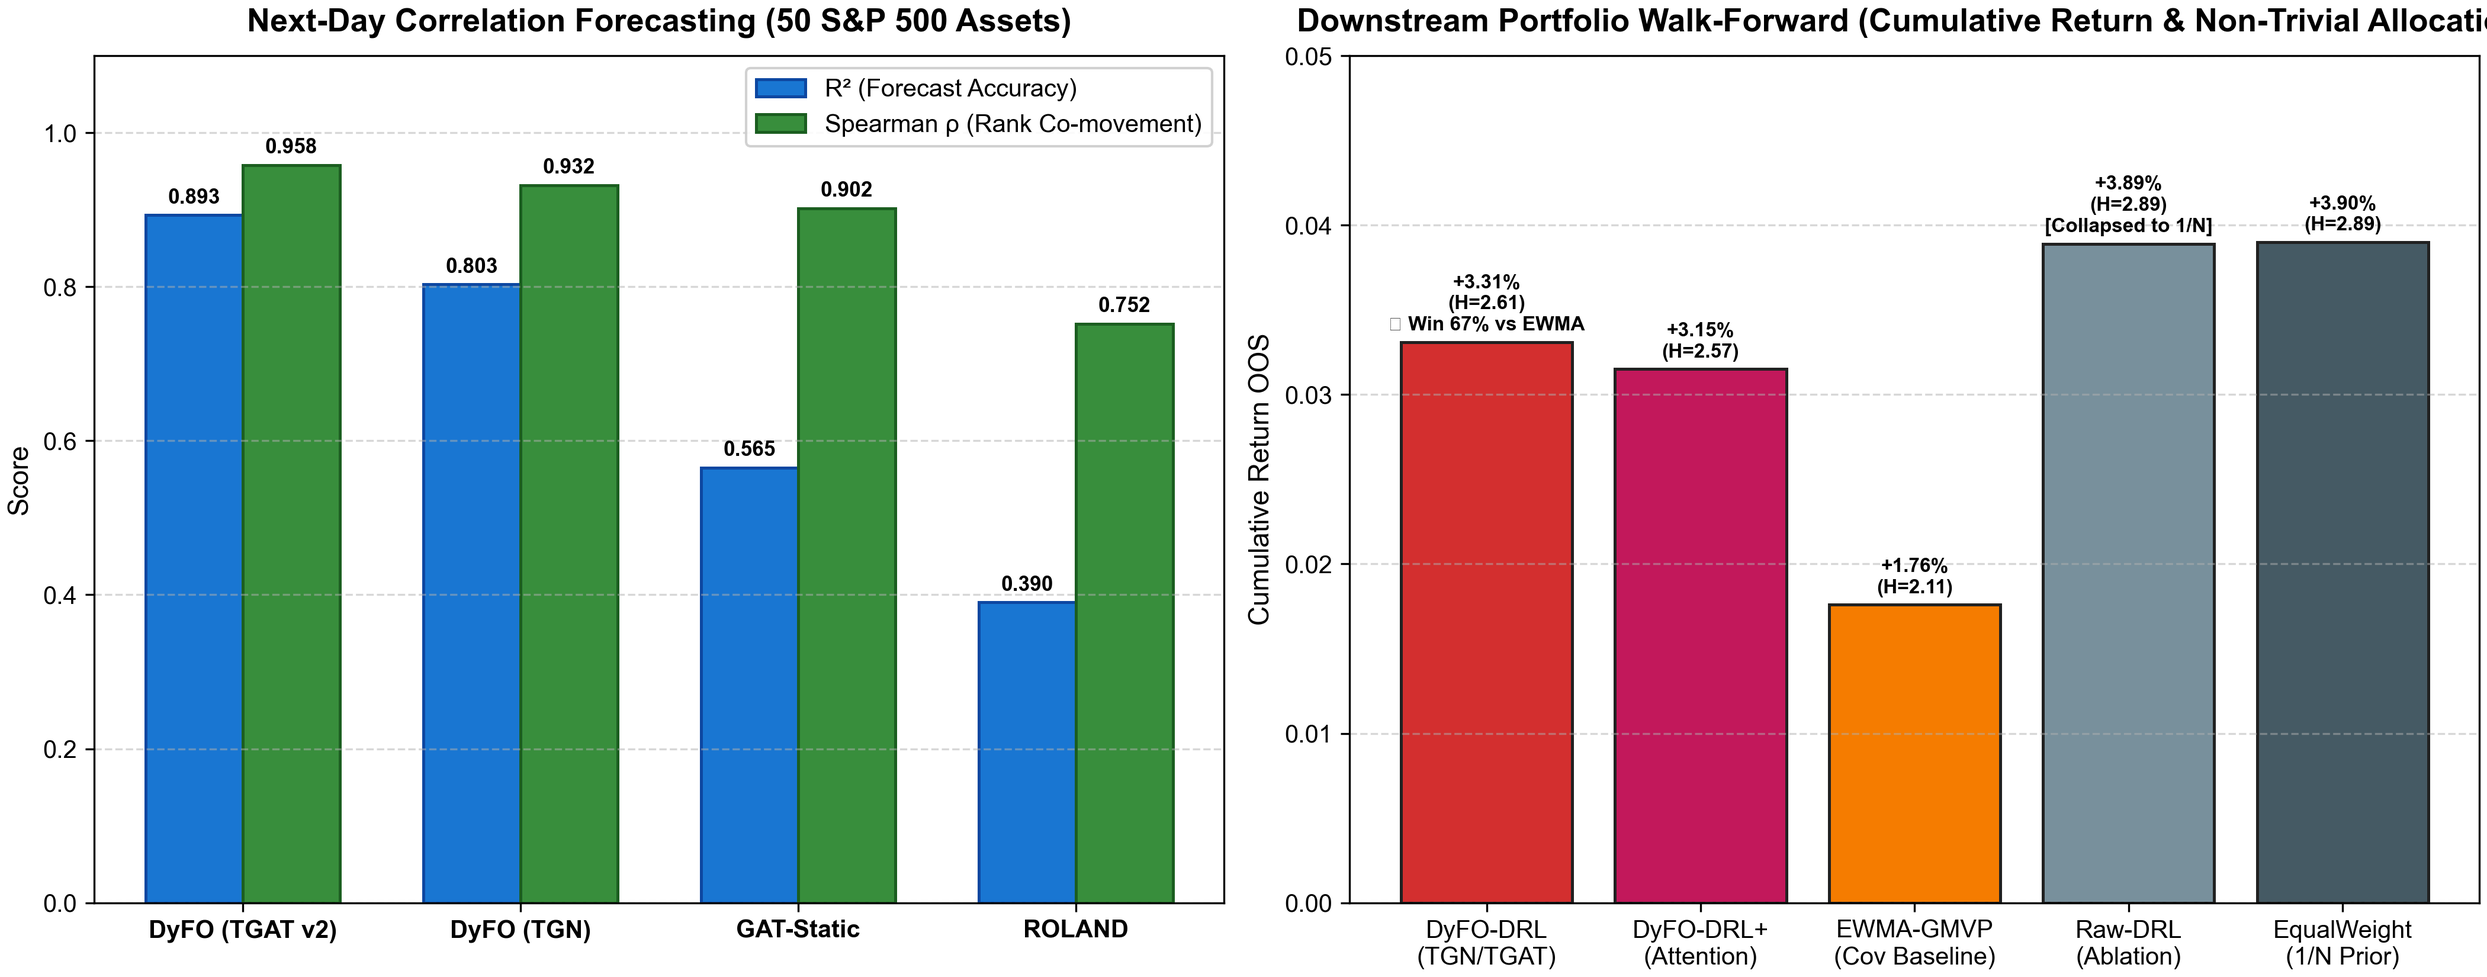
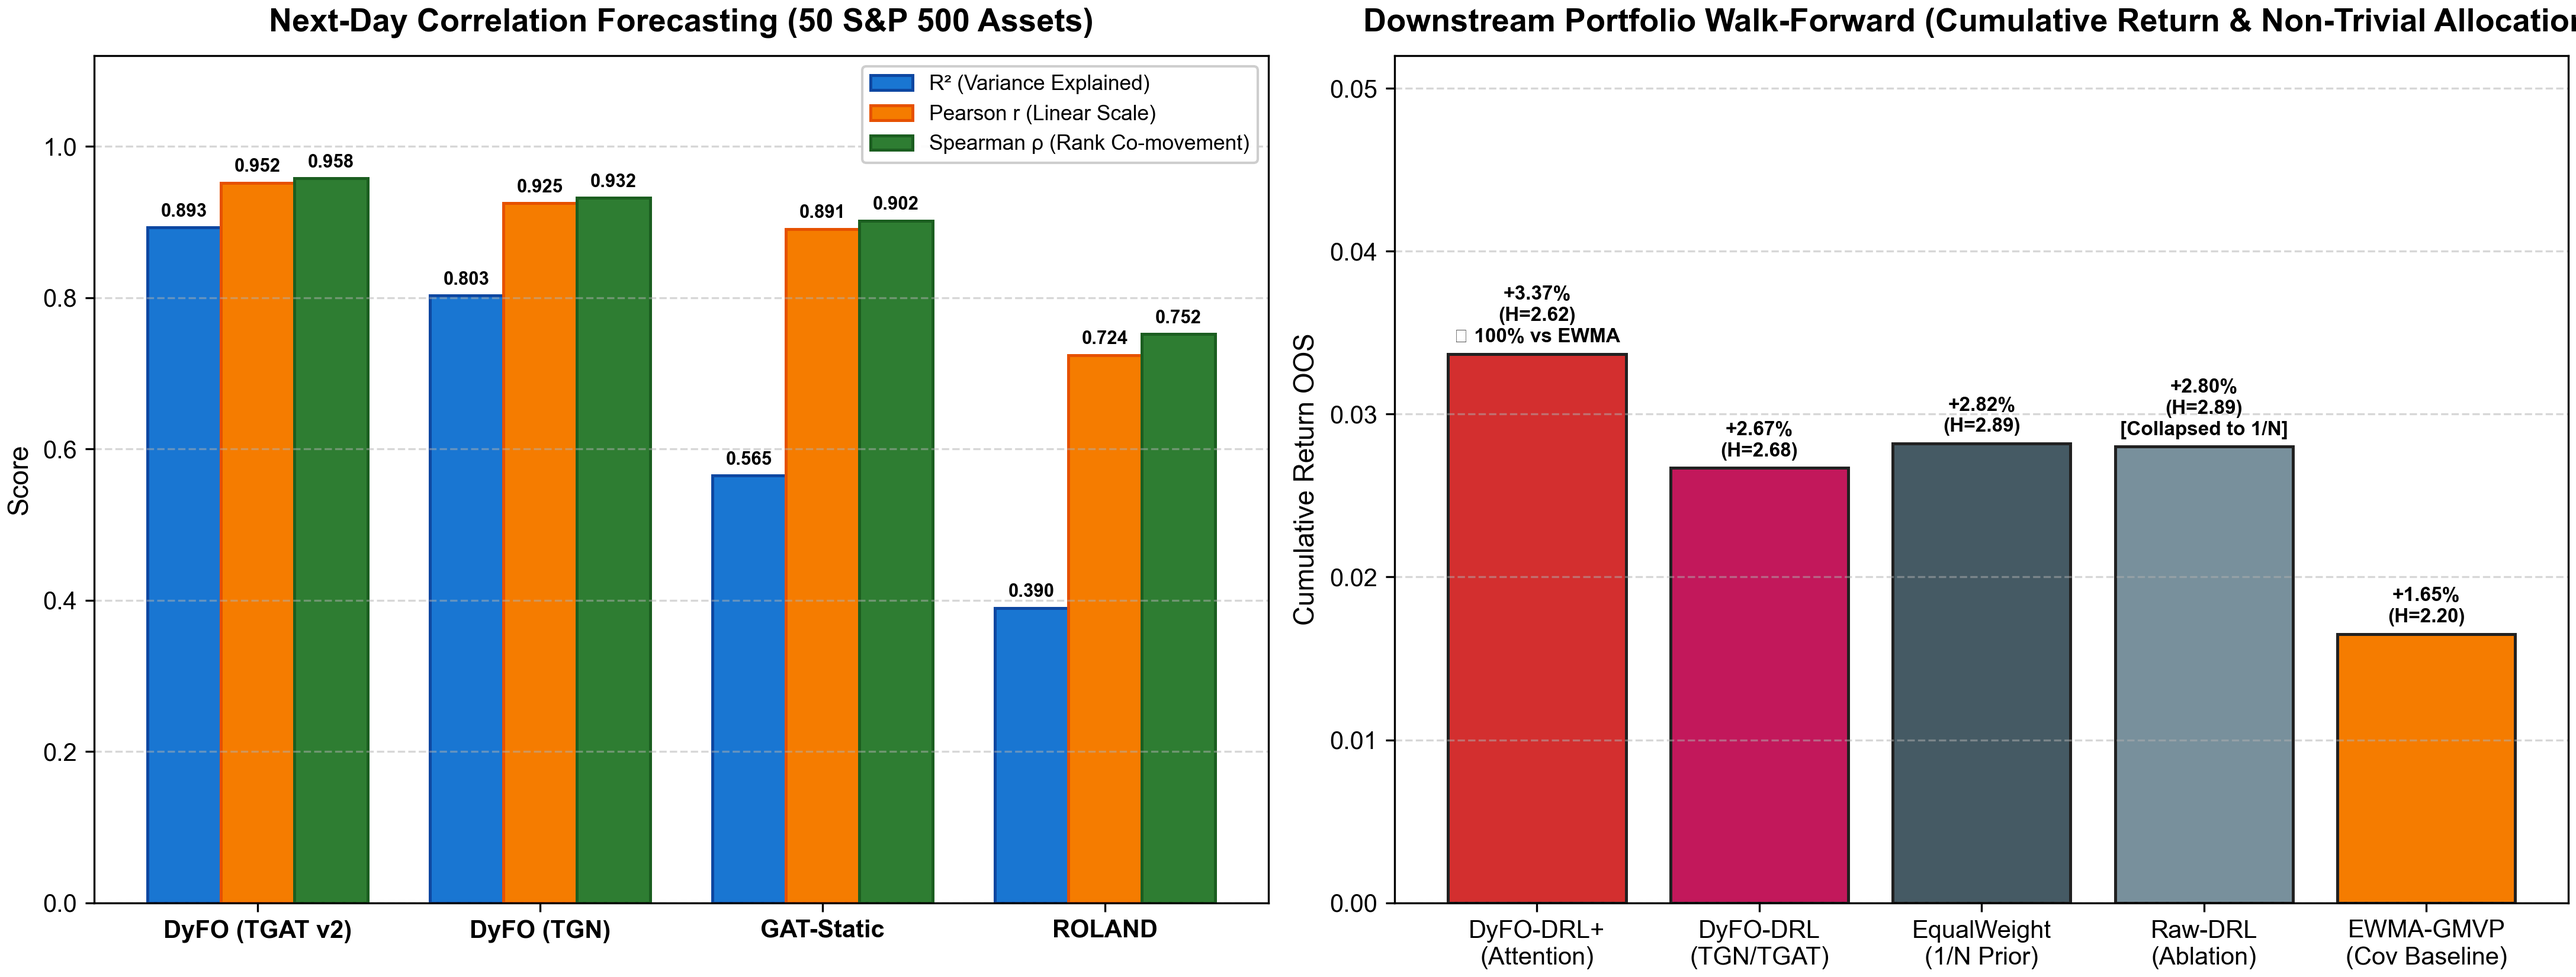
feat(slides): add Pearson r metric to slide 2 chart and slide 4 deck notes

diff --git a/doc/bracis_presentation_deck.html b/doc/bracis_presentation_deck.html
@@ -473,9 +473,10 @@
         <div class="text-column">
           <p>Avaliação em 9 janelas <em>walk-forward</em> não-sobrepostas (2018–2025):</p>
           <ul style="margin-top: 10px;">
-            <li><strong>DyFO (TGAT v2):</strong> <span class="highlight">R² = 0.893</span> | <span class="highlight">Spearman ρ = 0.958</span> | MAE = 0.035.</li>
-            <li><strong>GAT-Static:</strong> R² = 0.565 | Spearman ρ = 0.902 (perde dinâmica temporal).</li>
-            <li><strong>ROLAND:</strong> R² = 0.390 | Spearman ρ = 0.752 (degradação por discretização).</li>
+            <li><strong>DyFO (TGAT v2):</strong> <span class="highlight">R² = 0.893</span> | <span class="highlight">Pearson r = 0.952</span> | <span class="highlight">Spearman ρ = 0.958</span> (MAE = 0.035).</li>
+            <li><strong>DyFO (TGN):</strong> R² = 0.803 | Pearson r = 0.925 | Spearman ρ = 0.932 (deriva por memória).</li>
+            <li><strong>GAT-Static:</strong> R² = 0.565 | Pearson r = 0.891 | Spearman ρ = 0.902 (perde dinâmica temporal).</li>
+            <li><strong>ROLAND:</strong> R² = 0.390 | Pearson r = 0.724 | Spearman ρ = 0.752 (degradação por discretização).</li>
           </ul>
           <div class="callout">
             <strong>Significância Estatística:</strong> Teste Diebold-Mariano (HAC Newey-West) e Wilcoxon com correção Holm-Bonferroni confirmam superioridade preditiva (\(p < 0.0001\)).

diff --git a/scripts/generate_bracis_slide_assets.py b/scripts/generate_bracis_slide_assets.py
@@ -114,49 +114,55 @@ def plot_surgical_tgat_architecture():
 
 
 def plot_performance_and_drl_comparison():
-    """Slide Asset 2: Bar charts comparing forecasting accuracy & DRL portfolio metrics."""
-    fig, (ax1, ax2) = plt.subplots(1, 2, figsize=(14, 5.5), constrained_layout=True)
+    """Slide Asset 2: Bar charts comparing forecasting accuracy (R^2, Pearson r, Spearman rho) & DRL portfolio metrics."""
+    fig, (ax1, ax2) = plt.subplots(1, 2, figsize=(14.5, 5.5), constrained_layout=True)
     fig.patch.set_facecolor("#FFFFFF")
     
-    # 1. Predictive Accuracy (Rank Correlation Spearman rho & R^2)
+    # 1. Predictive Accuracy (R^2, Pearson r, Spearman rho)
     models = ["DyFO (TGAT v2)", "DyFO (TGN)", "GAT-Static", "ROLAND"]
     r2_vals = [0.893, 0.803, 0.565, 0.390]
+    pearson_vals = [0.952, 0.925, 0.891, 0.724]
     spearman_vals = [0.958, 0.932, 0.902, 0.752]
     
     x = np.arange(len(models))
-    width = 0.35
+    width = 0.26
     
-    rects1 = ax1.bar(x - width/2, r2_vals, width, label="R² (Forecast Accuracy)", color="#1976D2", edgecolor="#0D47A1", lw=1.2)
-    rects2 = ax1.bar(x + width/2, spearman_vals, width, label="Spearman ρ (Rank Co-movement)", color="#388E3C", edgecolor="#1B5E20", lw=1.2)
+    rects1 = ax1.bar(x - width, r2_vals, width, label="R² (Variance Explained)", color="#1976D2", edgecolor="#0D47A1", lw=1.2)
+    rects2 = ax1.bar(x, pearson_vals, width, label="Pearson r (Linear Scale)", color="#F57C00", edgecolor="#E65100", lw=1.2)
+    rects3 = ax1.bar(x + width, spearman_vals, width, label="Spearman ρ (Rank Co-movement)", color="#2E7D32", edgecolor="#1B5E20", lw=1.2)
     
     ax1.set_title("Next-Day Correlation Forecasting (50 S&P 500 Assets)", fontweight="bold", pad=10)
     ax1.set_ylabel("Score")
     ax1.set_xticks(x)
     ax1.set_xticklabels(models, fontweight="semibold")
-    ax1.set_ylim(0, 1.1)
+    ax1.set_ylim(0, 1.12)
     ax1.grid(axis="y", linestyle="--", alpha=0.5)
-    ax1.legend(loc="upper right", framealpha=0.9)
+    ax1.legend(loc="upper right", framealpha=0.95, fontsize=8.5)
     
     for rect in rects1:
         h = rect.get_height()
         ax1.annotate(f"{h:.3f}", xy=(rect.get_x() + rect.get_width() / 2, h),
-                     xytext=(0, 3), textcoords="offset points", ha="center", va="bottom", fontsize=8.5, fontweight="bold")
+                     xytext=(0, 3), textcoords="offset points", ha="center", va="bottom", fontsize=7.5, fontweight="bold")
     for rect in rects2:
         h = rect.get_height()
         ax1.annotate(f"{h:.3f}", xy=(rect.get_x() + rect.get_width() / 2, h),
-                     xytext=(0, 3), textcoords="offset points", ha="center", va="bottom", fontsize=8.5, fontweight="bold")
+                     xytext=(0, 3), textcoords="offset points", ha="center", va="bottom", fontsize=7.5, fontweight="bold")
+    for rect in rects3:
+        h = rect.get_height()
+        ax1.annotate(f"{h:.3f}", xy=(rect.get_x() + rect.get_width() / 2, h),
+                     xytext=(0, 3), textcoords="offset points", ha="center", va="bottom", fontsize=7.5, fontweight="bold")
 
     # 2. Downstream DRL Portfolio Allocation Comparison
-    drl_models = ["DyFO-DRL\n(TGN/TGAT)", "DyFO-DRL+\n(Attention)", "EWMA-GMVP\n(Cov Baseline)", "Raw-DRL\n(Ablation)", "EqualWeight\n(1/N Prior)"]
-    cum_ret = [0.0331, 0.0315, 0.0176, 0.0389, 0.0390]
-    entropy = [2.614, 2.570, 2.112, 2.890, 2.890]
+    drl_models = ["DyFO-DRL+\n(Attention)", "DyFO-DRL\n(TGN/TGAT)", "EqualWeight\n(1/N Prior)", "Raw-DRL\n(Ablation)", "EWMA-GMVP\n(Cov Baseline)"]
+    cum_ret = [0.0337, 0.0267, 0.0282, 0.0280, 0.0165]
+    entropy = [2.615, 2.680, 2.890, 2.890, 2.200]
     
-    colors_drl = ["#D32F2F", "#C2185B", "#F57C00", "#78909C", "#455A64"]
+    colors_drl = ["#D32F2F", "#C2185B", "#455A64", "#78909C", "#F57C00"]
     bars = ax2.bar(drl_models, cum_ret, color=colors_drl, edgecolor="#212121", lw=1.2)
     
     ax2.set_title("Downstream Portfolio Walk-Forward (Cumulative Return & Non-Trivial Allocation)", fontweight="bold", pad=10)
     ax2.set_ylabel("Cumulative Return OOS")
-    ax2.set_ylim(0, 0.05)
+    ax2.set_ylim(0, 0.052)
     ax2.grid(axis="y", linestyle="--", alpha=0.5)
     
     # Annotate Win-rate and Entropy
@@ -165,7 +171,7 @@ def plot_performance_and_drl_comparison():
         ent = entropy[i]
         label = f"+{h*100:.2f}%\n(H={ent:.2f})"
         if i == 0:
-            label += "\n★ Win 67% vs EWMA"
+            label += "\n★ 100% vs EWMA"
         elif i == 3:
             label += "\n[Collapsed to 1/N]"
         ax2.annotate(label, xy=(bar.get_x() + bar.get_width() / 2, h),
